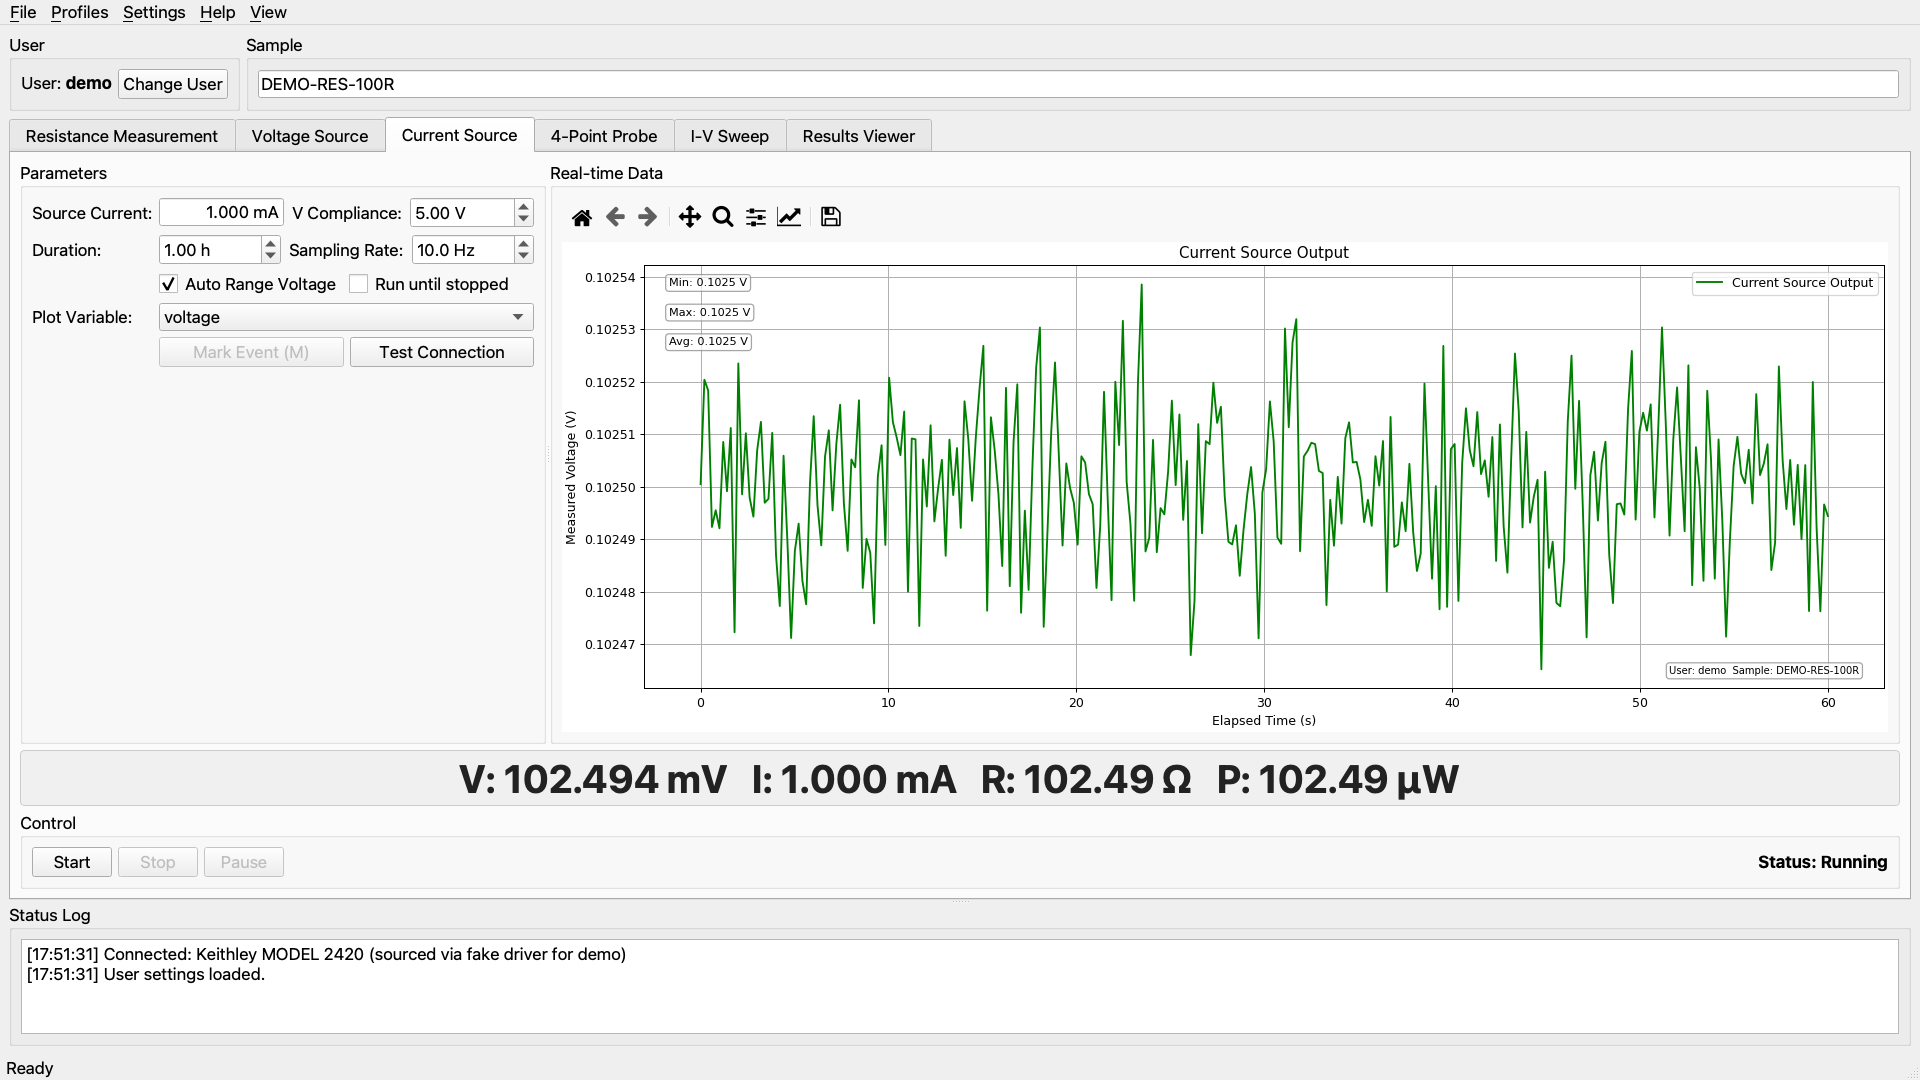
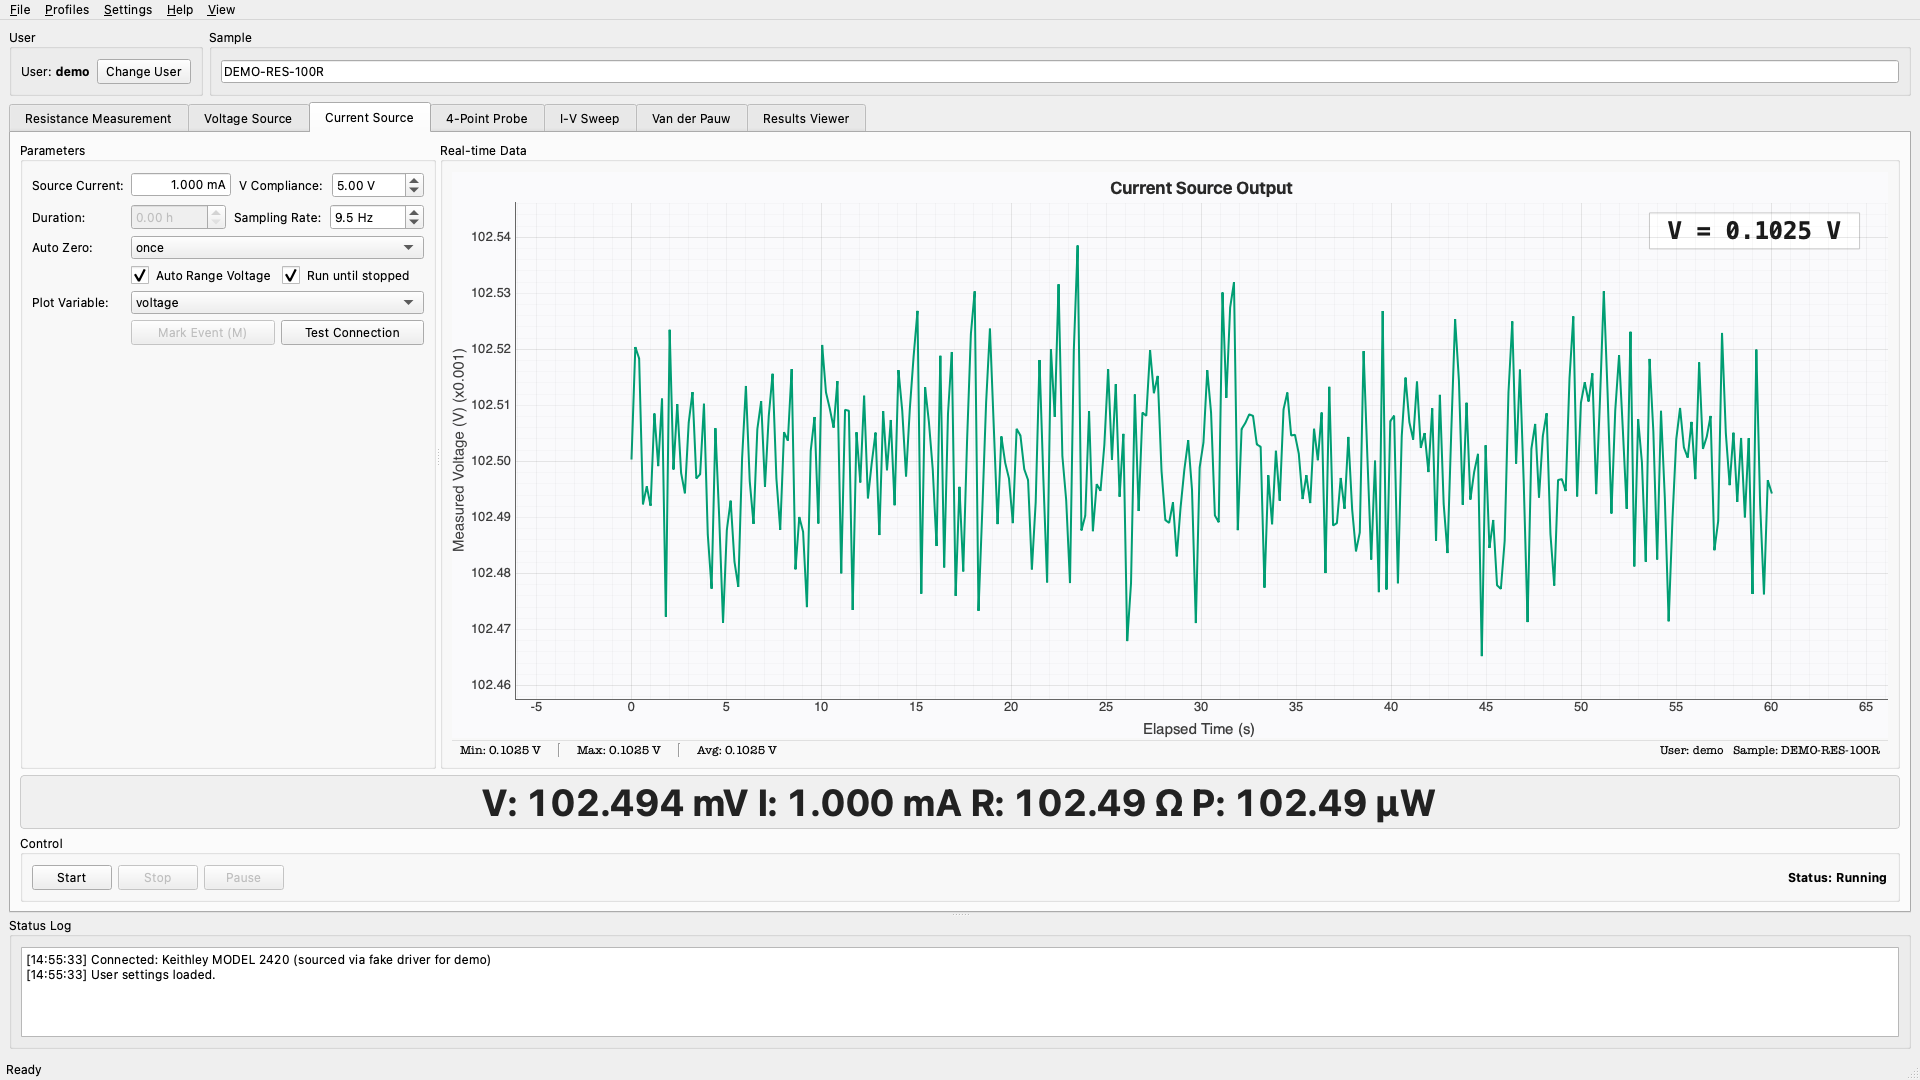
docs+paper: regenerate screenshots for v1.11.0; copy-edit paper L35
Screenshots had drifted from v1.9 (May 8) and were missing visible
v1.10.0 features (±σ uncertainty readout, stat/inst breakdown,
NPLC-aware sig figs) and v1.11.0 features (Wong palette, smoothed
readout). Re-ran tools/generate_screenshots.py.

Paper paragraph L35 also picked up six grammar/style fixes flagged
during JOSS prep:
  - parenthetical commas around "to my knowledge"
  - "point and click" → "point-and-click" (compound adjective)
  - "where available. Resistance over time measurement," →
    "where available: resistance over time," (sentence fragment)
  - "current & voltage" → "current and voltage"
  - drop duplicate "and" before I-V sweep mode
  - "uses, while" → "uses; while" (comma splice)

diff --git a/paper/paper.md b/paper/paper.md
@@ -32,7 +32,7 @@ The closest direct peer to `ResistaMet GUI` is commercial software sold by Tektr
 
 Researchers needing to use older instruments have other options, though none are complete. Programmatic scripting frameworks (`pymeasure` [@pymeasure], `QCoDeS` [@qcodes]) offer procedure scaffolding and instrument drivers for users capable of writing their own code. Community-developed open source GUIs are most commonly tuned for narrow-scope subfields or tests. `MeaSSUre:I-V` [@oh2023meassure] targets transistor-memory and neuromorphic device characterization. `QKeithleyControl` [@qkeithleycontrol] covers transistor sweeps and solar-cell tracking. `keithleygui` [@keithleygui] is built for organic-FET work, specifically using the Keithley 2600 series. Fébba et al.'s LLM-driven controller [@febba2025] fits single-diode parameters to solar-cell I-V curves and is the published precedent for using a large language model to write Keithley control software — an approach this work also follows (see AI usage disclosure). `GatherLab/four-point-sheet-resistance` covers one specific four-point probe setup.
 
-`ResistaMet GUI` covers a combined materials-characterization workflow that to our knowledge has not been previously available in a single point and click application. There are six measurement modes, backed up by measurement standards where available. Resistance over time measurement, fixed-bias modes for current & voltage, a dedicated mode for collinear 4-point probe measurements (ASTM F84-aligned) [@astm_f84; @smits1958], and ASTM F76 van der Pauw resistivity with the §11.1 homogeneity gate [@astm_f76] and an I-V sweep mode. ResistaMet is explicitly designed for a broad array of uses, while individual programs may be better suited for niche use cases, we aim to have the best general-purpose application for Keithley 2400 series electrical characterization.
+`ResistaMet GUI` covers a combined materials-characterization workflow that, to my knowledge, has not been previously available in a single point-and-click application. There are six measurement modes, backed up by measurement standards where available: resistance over time, fixed-bias modes for current and voltage, a dedicated mode for collinear 4-point probe measurements (ASTM F84-aligned) [@astm_f84; @smits1958], ASTM F76 van der Pauw resistivity with the §11.1 homogeneity gate [@astm_f76], and an I-V sweep mode. ResistaMet is explicitly designed for a broad array of uses; while individual programs may be better suited for niche use cases, I aim to have the best general-purpose application for Keithley 2400 series electrical characterization.
 
 # Software design
 
